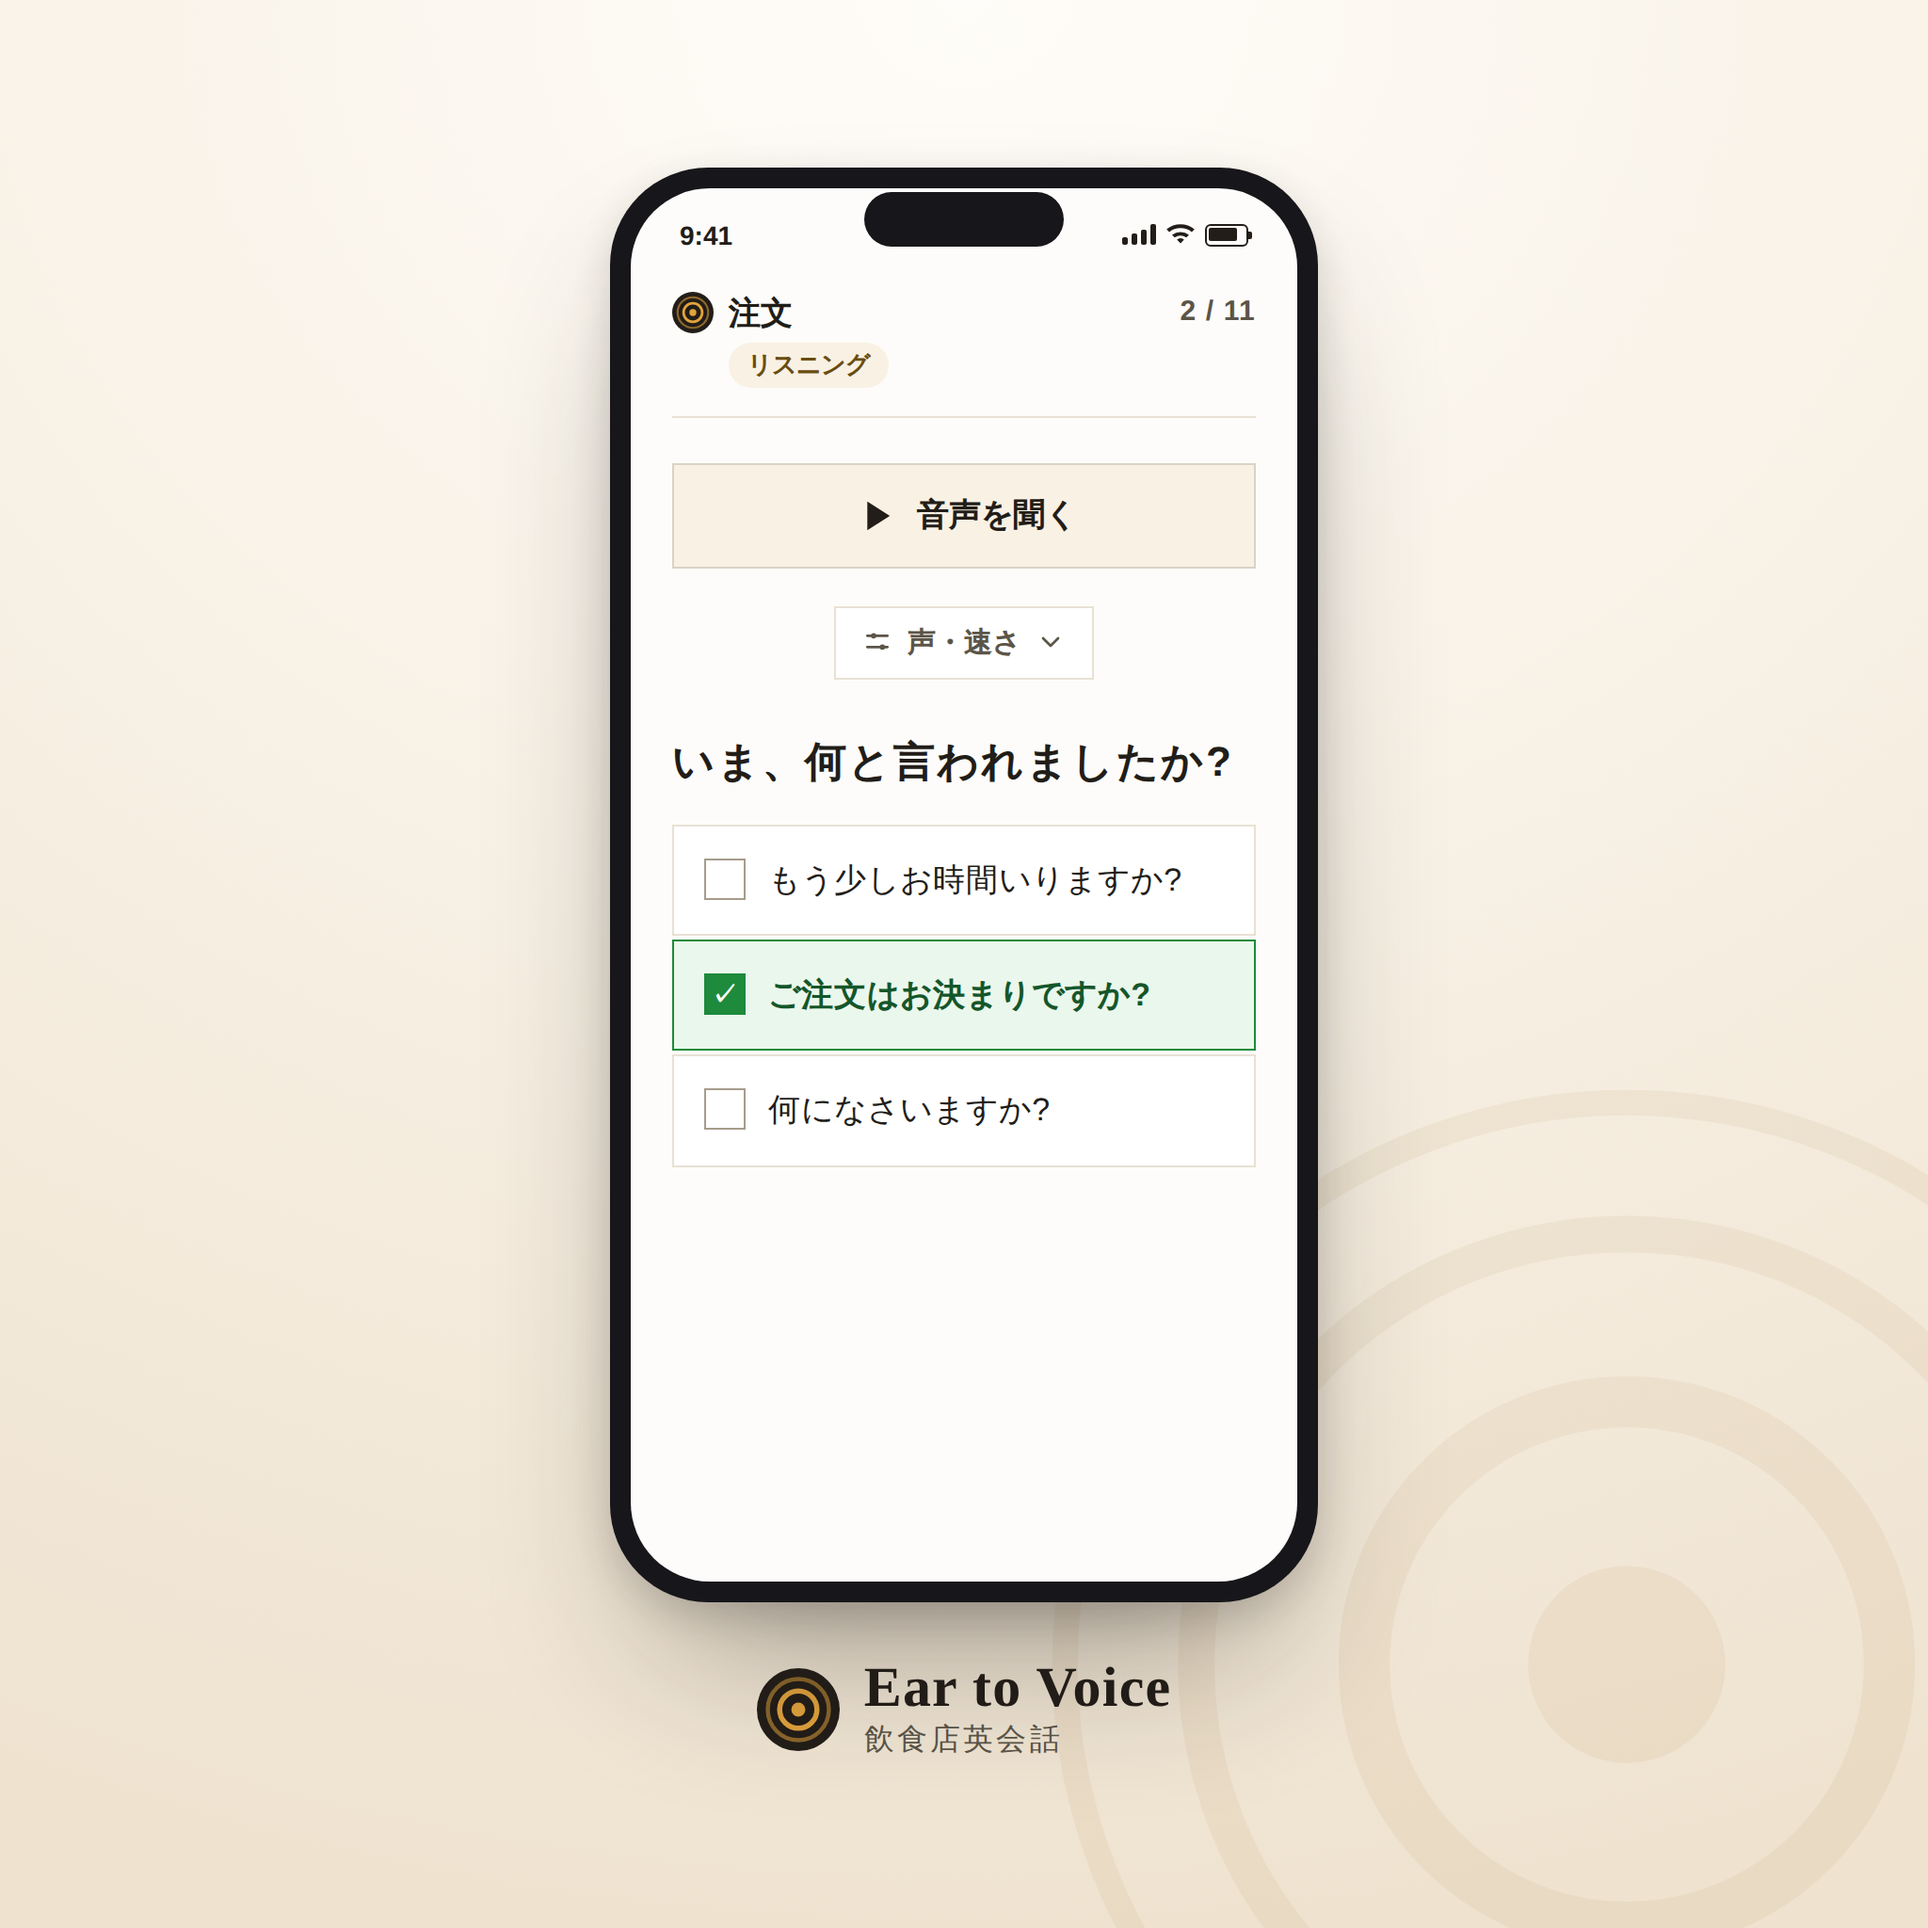
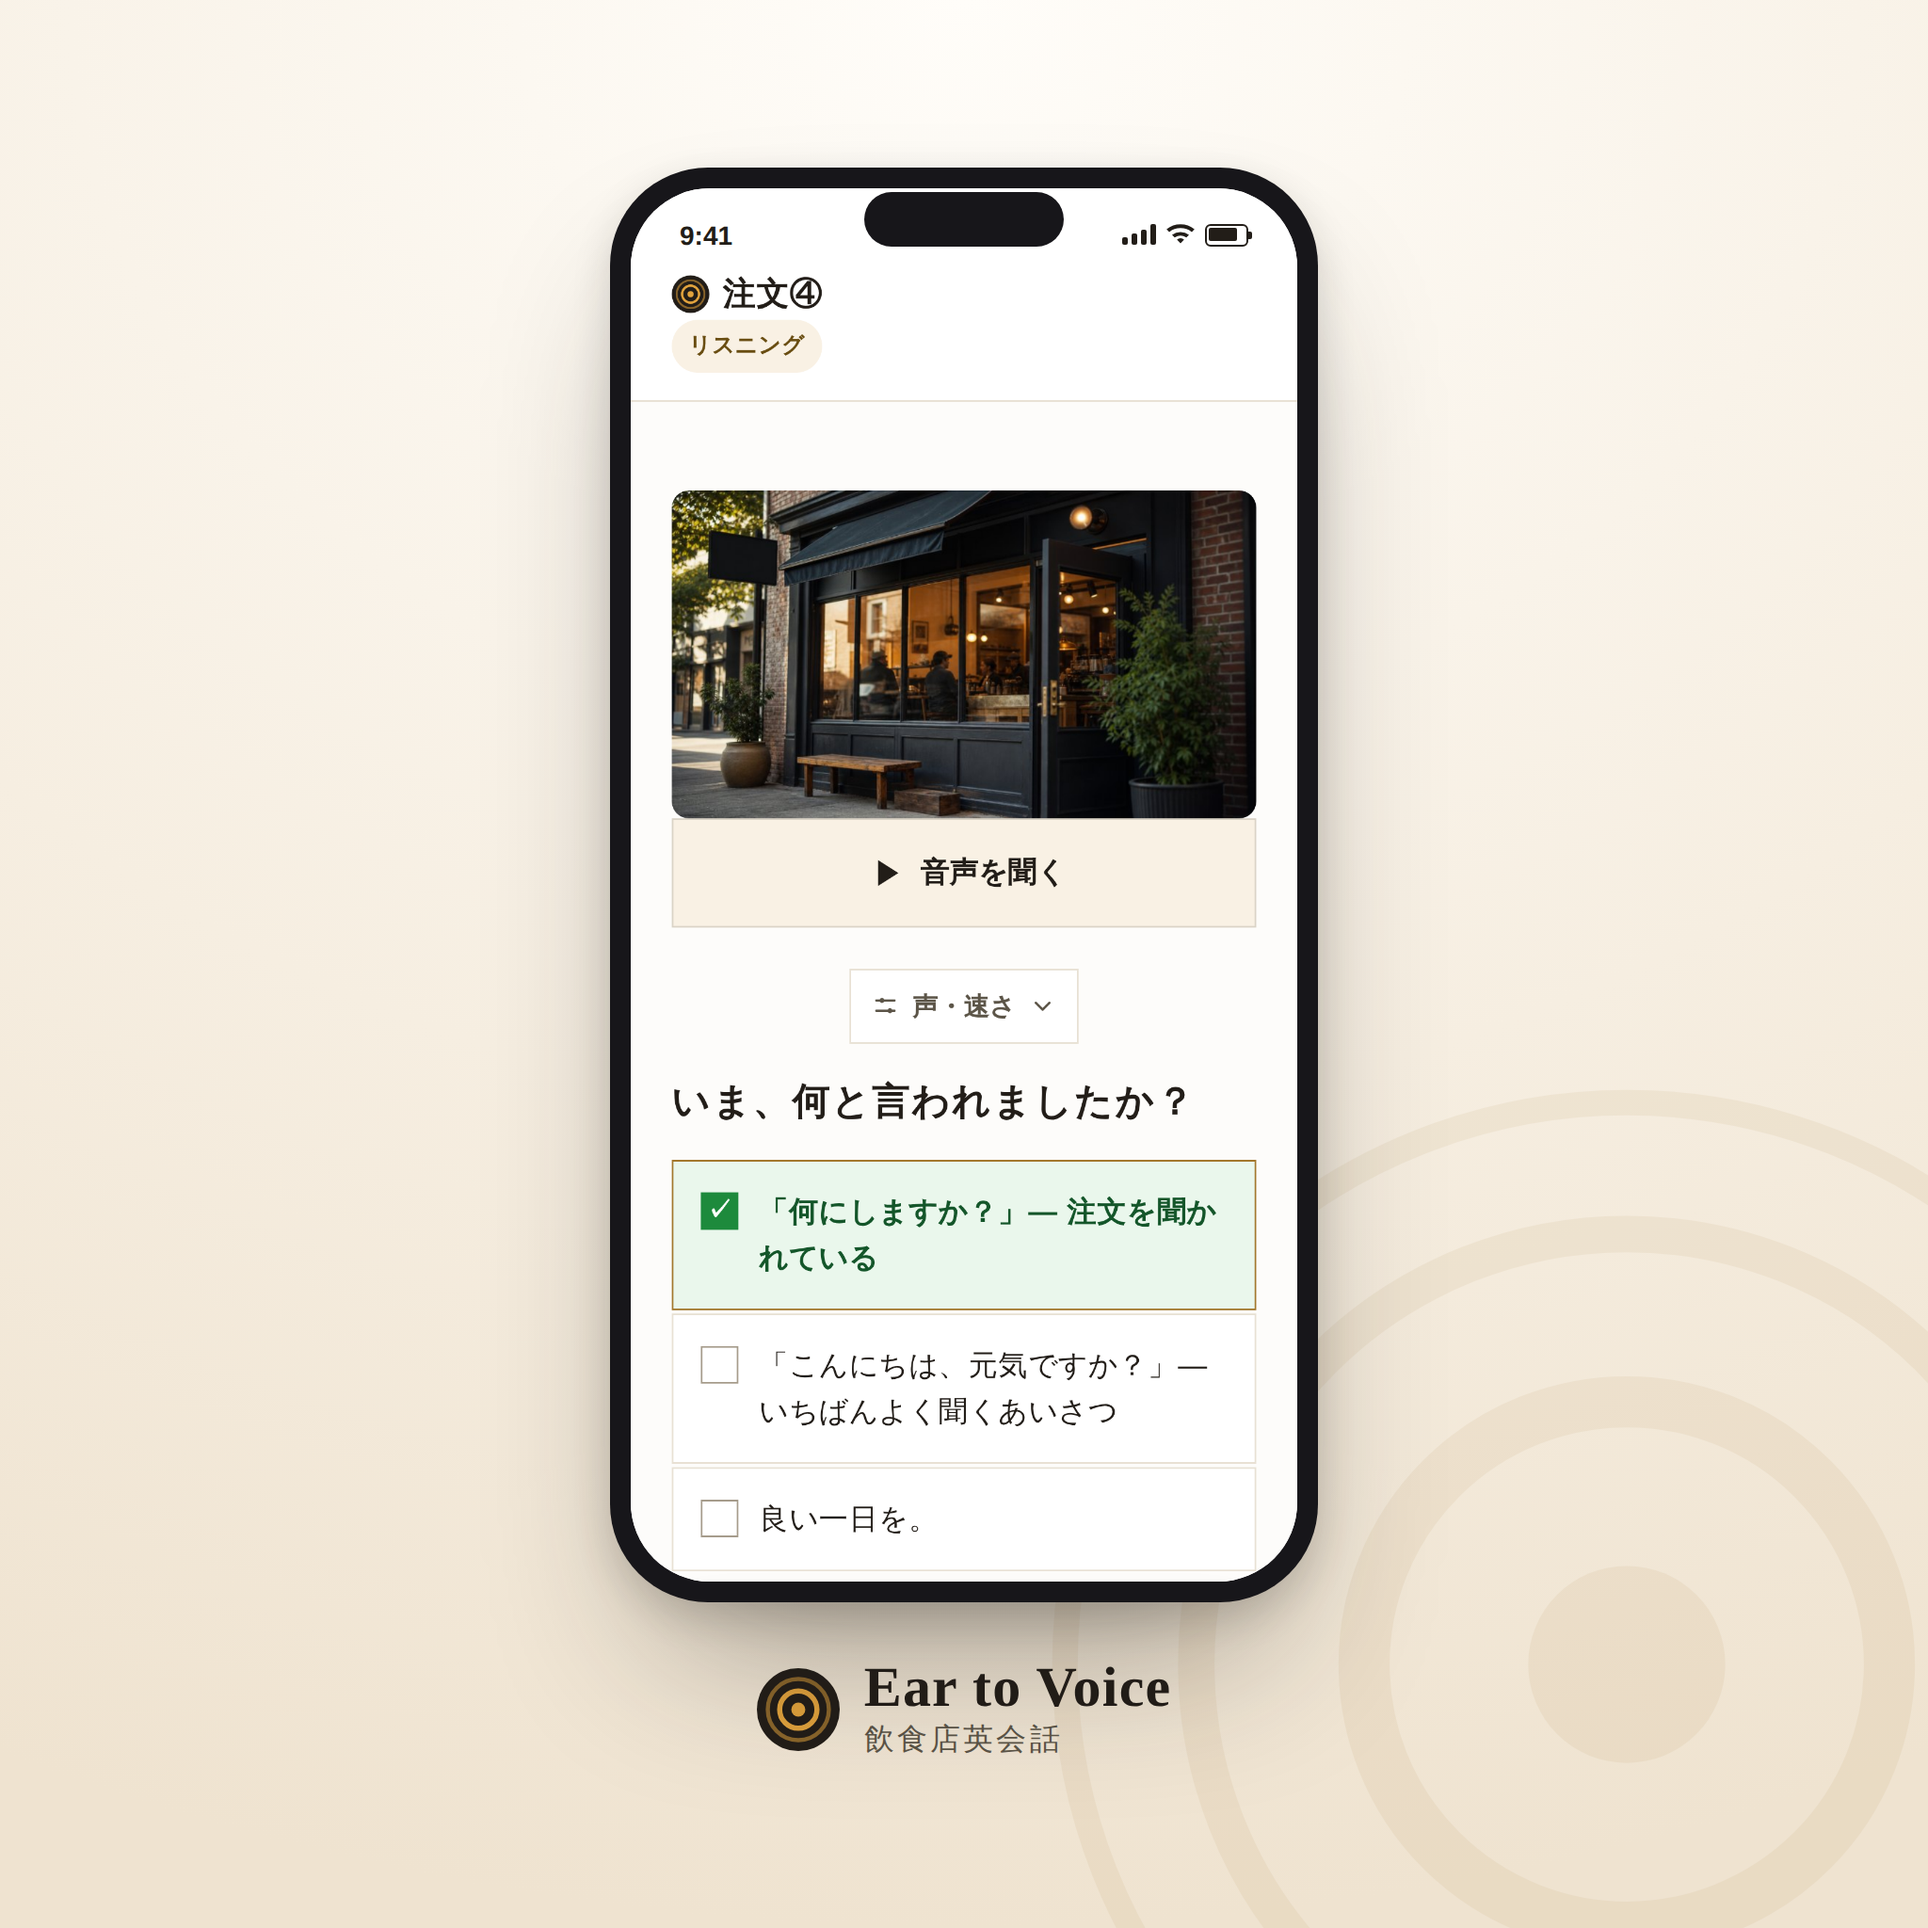
Stripe の商品画像: 本物のコース画面に差し替える
★HARU様「Enjoyがパスワードです」。

それまでは、コース本体を読んで**同じ値で組み直した絵**だった。
パスワードをいただいたので、本体(app側 eatout/listening/index.html)を
実際に動かして撮った画面に差し替えた。作り物ではなくなった。

映っているのは「注文④」のリスニング。店員の What can I get for you? を
聞いて、3択から選んだ直後の画面。場面の写真・選択肢・正解の緑まで、
コースで実際に出るものがそのまま写っている。

こちらで描いたのは、携帯の枠・背景・下のロゴ・**上の時刻の帯だけ**。
時刻の帯はブラウザの画面写真には写らないため。帯の地を白にしたのは、
アプリのヘッダーが白(実測 rgb(255,255,255))で継ぎ目を見せないため。

3択が下で切れないよう、撮る前に位置を測って合わせている
(最後の選択肢の下端が画面に収まる量だけ動かす)。3つとも全部
見えていることを実測で確かめた。

  eatout-product-2048.png  1.24MB ← これをStripeに登録する
  eatout-product-1024.png  0.43MB
  app-screen.png                  本体の画面写真(組み立ての材料)

README に「どの場面か」「どこまでが本物でどこからが枠か」「撮り直し方」を
書いた。★コース本体の見た目が変わったら撮り直すこと。

Claude-Session: https://claude.ai/code/session_01NgwvBjTeek5MrFES77f5Ab

diff --git a/assets/stripe/eatout-product.html b/assets/stripe/eatout-product.html
@@ -26,8 +26,8 @@ body{width:1024px;height:1024px;font-family:var(--gothic);
 .island{position:absolute;top:13px;left:50%;transform:translateX(-50%);width:106px;height:29px;
   background:#17161A;border-radius:999px;z-index:5}
 /* 状態バー */
-.status{display:flex;justify-content:space-between;align-items:center;
-  padding:17px 26px 0;font-size:14px;font-weight:700;color:var(--ink)}
+.status{display:flex;justify-content:space-between;align-items:center;flex:none;
+  background:#fff;padding:17px 26px 6px;font-size:14px;font-weight:700;color:var(--ink)}
 .status .right{display:flex;align-items:center;gap:5px}
 .bars{display:flex;align-items:flex-end;gap:2px;height:11px}
 .bars i{width:3px;background:var(--ink);border-radius:1px}
@@ -35,7 +35,13 @@ body{width:1024px;height:1024px;font-family:var(--gothic);
 .batt::after{content:'';position:absolute;right:-3.2px;top:3.4px;width:2px;height:4px;background:var(--ink);border-radius:0 1px 1px 0}
 .batt i{display:block;height:100%;width:78%;background:var(--ink);border-radius:1px}
 
-.body{padding:22px 22px 0;flex:1;display:flex;flex-direction:column}
+/* ★2026-09-19 HARU様からパスワードをいただいたので、**本物のコース画面**を
+   撮って差し替えた(assets/stripe/app-screen.png)。それまでは同じ値で
+   組み直した絵だった。撮り方は README を参照。
+   時刻の帯だけはこちらで描いている —— アプリの画面写真には入らないため。
+   帯の地を白にしてあるのは、アプリのヘッダー(.topbar)が白で、継ぎ目が
+   見えないようにするため(実測 rgb(255,255,255))。 */
+.shot{display:block;width:100%;flex:1;object-fit:cover;object-position:top}
 /* ヘッダー(◎ + 場面名 + 札 + 数字) */
 .head{display:flex;align-items:flex-start;justify-content:space-between;gap:8px}
 .cat{display:flex;align-items:center;gap:8px}
@@ -95,46 +101,7 @@ body{width:1024px;height:1024px;font-family:var(--gothic);
         </span>
       </div>
 
-      <div class="body">
-        <div class="head">
-          <span class="cat">
-            <svg viewBox="0 0 32 32" aria-hidden="true">
-              <circle cx="16" cy="16" r="16" fill="#221D18"/>
-              <circle cx="16" cy="16" r="2.7" fill="#E2A33D"/>
-              <circle cx="16" cy="16" r="7.2" fill="none" stroke="#E2A33D" stroke-width="2"/>
-              <circle cx="16" cy="16" r="11.8" fill="none" stroke="#E2A33D" stroke-width="1.6" opacity=".55"/>
-            </svg>
-            <span class="cat-name">注文</span>
-          </span>
-          <span class="prog">2 / 11</span>
-        </div>
-        <span class="kind">リスニング</span>
-        <div class="hr"></div>
-
-        <div class="play">
-          <svg viewBox="0 0 24 24" fill="currentColor"><path d="M8 5v14l11-7z"/></svg>
-          音声を聞く
-        </div>
-
-        <div class="settings">
-          <span>
-            <svg viewBox="0 0 24 24" fill="none" stroke="currentColor" stroke-width="2" stroke-linecap="round">
-              <line x1="4" y1="7" x2="20" y2="7"/><circle cx="9" cy="7" r="2.2" fill="currentColor" stroke="none"/>
-              <line x1="4" y1="16" x2="20" y2="16"/><circle cx="16" cy="16" r="2.2" fill="currentColor" stroke="none"/>
-            </svg>
-            声・速さ
-            <svg viewBox="0 0 24 24" fill="none" stroke="currentColor" stroke-width="2" stroke-linecap="round" stroke-linejoin="round"><polyline points="6 9 12 15 18 9"/></svg>
-          </span>
-        </div>
-
-        <p class="q">いま、何と言われましたか?</p>
-        <div class="opts">
-          <div class="opt"><span class="box"></span><span>もう少しお時間いりますか?</span></div>
-          <div class="opt ok"><span class="box">✓</span><span>ご注文はお決まりですか?</span></div>
-          <div class="opt"><span class="box"></span><span>何になさいますか?</span></div>
-        </div>
-
-      </div>
+      <img class="shot" src="app-screen.png" alt="">
     </div>
   </div>
 
